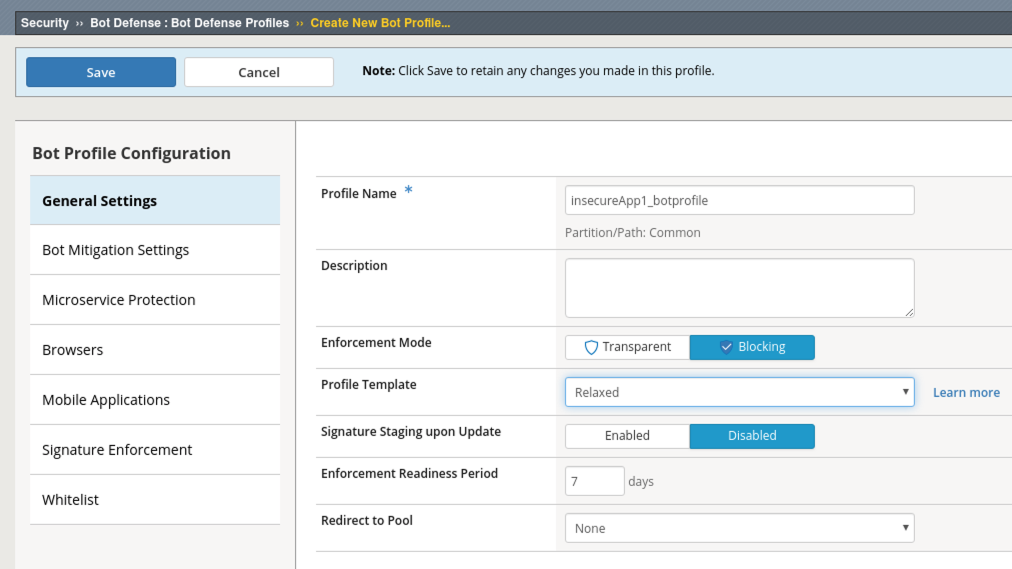
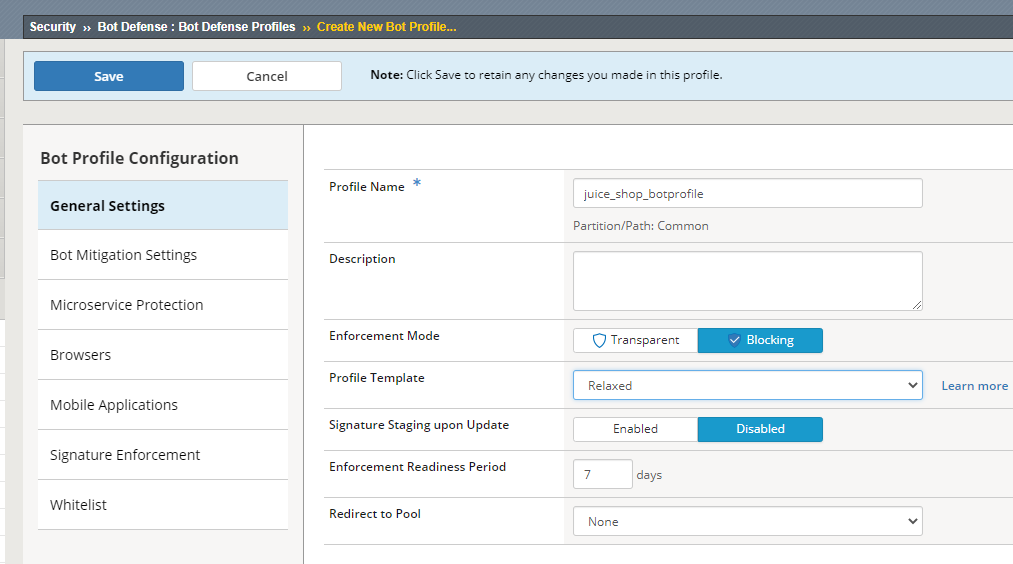
update

diff --git a/docs/waf341/module1/lab1/lab1.rst b/docs/waf341/module1/lab1/lab1.rst
@@ -106,13 +106,14 @@ Enabling Bot Profile
 
 
 
-#.  Navigate to **Security > Bot Defense > Bot Defense Profiles** and check to see if insecureApp1_botprofile has been created.  If not, click **Create**.
-#.  Name: **insecureApp1_botprofile**
+#.  Navigate to **Security > Bot Defense > Bot Defense Profiles** and check to see if juice_shop_botprofile has been created.  If not, click **Create**.
+#.  Name: **juice_shop_botprofile**
 #.  Profile Template: **Relaxed**
 #.  Change the Enforcement Mode to Blocking
 #.  Click the **Learn more** link to see an explanation of the options.
 
-        |bot_profile|
+.. image:: images/bot_profile.png
+  :width: 600 px
 
 #.  Click on the **Bot Mitigation Settings** tab and review the default configuration.
 #.  Click on the **Signature Enforcement** tab and review the default configuration.
